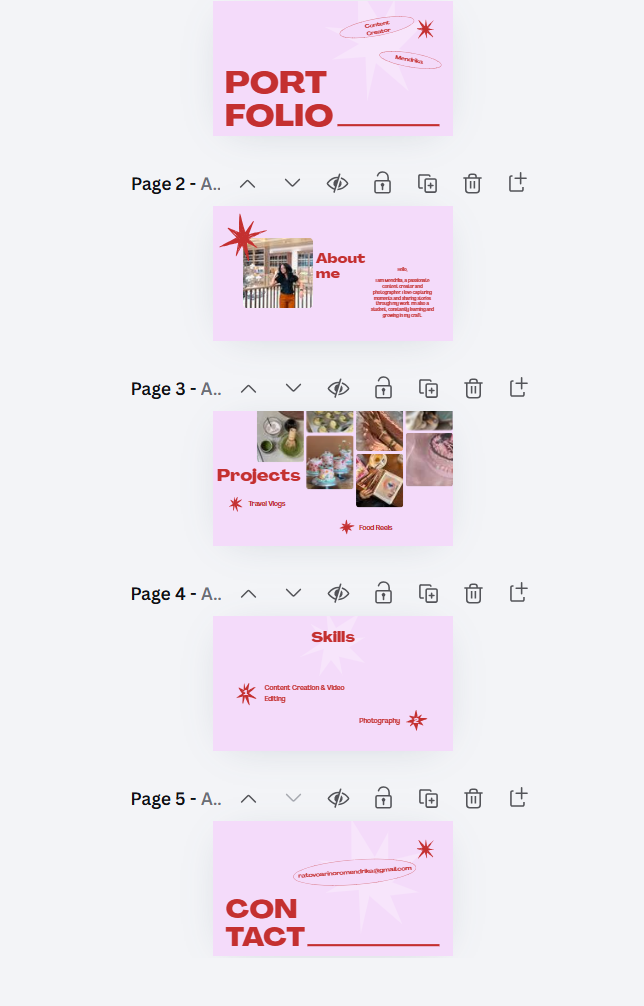
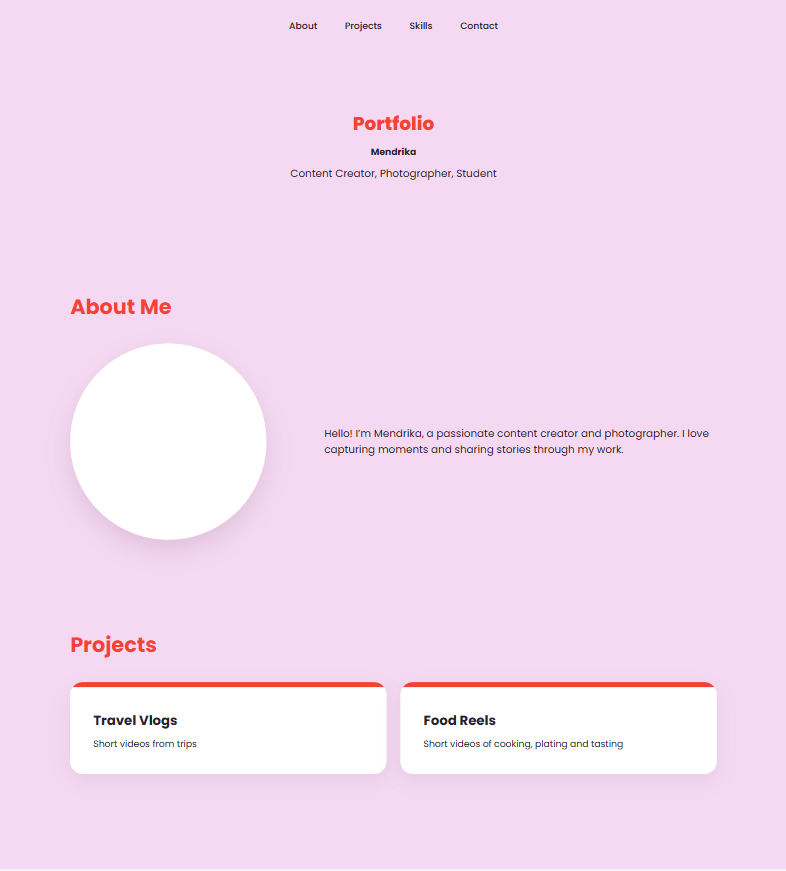
Update Canva design and README Link

diff --git a/README.md b/README.md
@@ -4,7 +4,7 @@
 This is a single-page responsive portfolio website created as part of the lab assignment (WEEK06 HCI LAB). It showcases my profile, projects, skills, and contact details, as a student, content creator and photographer. It is built using HTML and CSS only (no JavaScript).
 
 * URL Link to website portfolio: [Click Here](https://mendrika30.github.io/portfolio/)
-* URL Link to website design: [Click Here](https://canva.link/0dqvzmjm36pxk8r)
+* URL Link to website design: [Click Here](https://canva.link/43nv2ngix69nixt)
 
 ## 🎯 Purpose
 The goal of this project is to:
